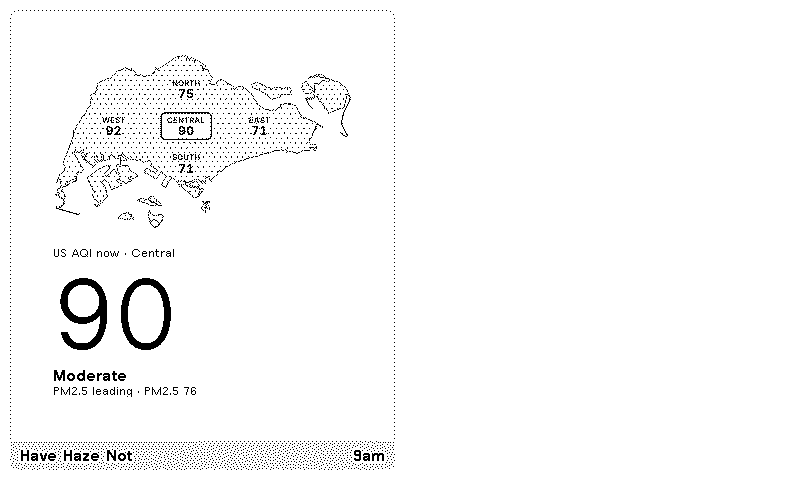
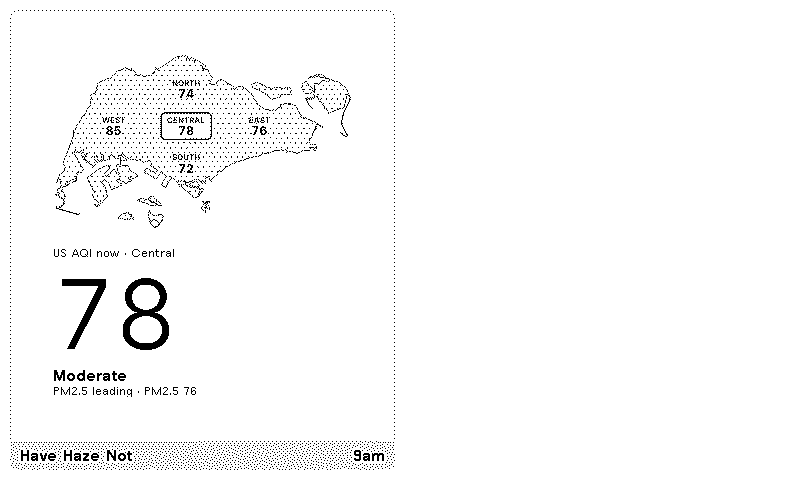
Take the US AQI from aqicn when a token is configured
Deriving the AQI got close to aqicn but never matched, and the residual had
a specific cause: aqicn still uses the pre-2024 EPA breakpoints, where Good
topped at 12.0ug/m3, while this used the current table revised in May 2024,
where it tops at 9.0. Running NEA's hourly readings through the older table
reproduced their numbers exactly, which is how that was pinned down.

Rather than pick a table, use theirs. All five NEA regions exist as aqicn
stations and one map/bounds request returns them together, so this costs a
single polling URL. Verified against their pages: every region now matches
exactly, where the derived values were off by up to 12.

The token is optional. Left blank the request fails harmlessly, the derived
value takes over, and the plugin still needs no account -- checked by
rendering both paths and asserting they differ, so the token is not quietly
doing nothing.

Singapore appears in the comparison row as well, and was showing Open-Meteo's
109 beside a headline of 78. It now takes the measured figure, so one place
cannot contradict another.

The repository is public, so the token gets three guards rather than trust.
settings.yml interpolates {{ aqicn_token }} and holds no value. .trmnlp.yml
is committed *and* rewritten by the preview picker -- which has already
captured a stray selection twice -- so it reads the environment instead, with
the value in a gitignored .env.local. tests/test_secrets.py fails the build
[…]

diff --git a/tests/test_render.py b/tests/test_render.py
@@ -53,7 +53,7 @@ def _user_flags():
     return ["--user", "%d:%d" % (os.getuid(), os.getgid()), "--env", "HOME=/tmp"]
 
 
-def render(home_region, scale=None):
+def render(home_region, scale=None, waqi=False):
     """Render full.html in a throwaway copy configured for one region."""
     with tempfile.TemporaryDirectory() as tmp:
         project = pathlib.Path(tmp) / "plugin"
@@ -74,6 +74,10 @@ def render(home_region, scale=None):
             # so the override has to have that shape too.
             "IDX_1": json.loads((ROOT / "fixtures" / "pm25.json").read_text()),
             "IDX_2": {"data": json.loads((ROOT / "fixtures" / "open-meteo.json").read_text())},
+            # Without a token the request fails; pass the failure shape so the
+            # fallback path is what the default tests exercise.
+            "IDX_3": (json.loads((ROOT / "fixtures" / "waqi.json").read_text())
+                      if waqi else {"status": "error", "data": "Invalid key"}),
         }
         fields = {"home_region": home_region}
         if scale:
@@ -308,6 +312,54 @@ class TestScaleSwitching(unittest.TestCase):
         self.assertEqual(len(rows), 5)
         for name, shown, pm25, _ in rows:
             self.assertEqual(shown, pm25, "%s: scale column should be the PM2.5 value" % name)
+
+
+@unittest.skipUnless(docker_available(), "docker not available")
+class TestAqicnSource(unittest.TestCase):
+    """With a token the AQI is aqicn's measured figure; without one it falls
+    back to the value derived from NEA's hourly PM2.5, so the plugin keeps
+    working for anyone who never registers."""
+
+    @classmethod
+    def setUpClass(cls):
+        cls.measured = json.loads((ROOT / "fixtures" / "waqi.json").read_text())
+        cls.with_token = render("Central", scale="US AQI", waqi=True)
+        cls.without = render("Central", scale="US AQI", waqi=False)
+
+    def expected(self):
+        out = {}
+        for s in self.measured["data"]:
+            name = s["station"]["name"]
+            if name.endswith(", Singapore"):
+                out[name.split(",")[0].upper()] = str(s["aqi"])
+        return out
+
+    def map_values(self, html):
+        names = re.findall(r'text-anchor="middle">([A-Z]+)</text>', html)
+        nums = re.findall(r'aq-map__psi"[^>]*text-anchor="middle">([^<]*)</text>', html)
+        return dict(zip(names, nums))
+
+    def test_token_makes_every_region_match_aqicn_exactly(self):
+        self.assertEqual(self.map_values(self.with_token), self.expected())
+
+    def test_without_a_token_it_still_renders_numbers(self):
+        got = self.map_values(self.without)
+        self.assertEqual(sorted(got), sorted(self.expected()))
+        for region, v in got.items():
+            self.assertTrue(v.strip().isdigit(), "%s blank on the fallback path" % region)
+
+    def test_the_two_paths_actually_differ(self):
+        """If they matched, the token would be doing nothing."""
+        self.assertNotEqual(self.map_values(self.with_token), self.map_values(self.without))
+
+    def test_singapore_city_entry_agrees_with_the_headline(self):
+        """Singapore appears twice on screen; it must not show two numbers."""
+        _, _, headline, _ = HEADLINE.search(self.with_token).groups()
+        cities = re.findall(
+            r'label--small">([A-Z][a-z][^<]*)</span>\s*'
+            r'<span class="value value--small value--tnums">([^<]*)</span>', self.with_token)
+        sg = dict(cities)["Singapore"]
+        self.assertEqual(sg, headline)
 
 
 if __name__ == "__main__":

diff --git a/tests/test_secrets.py b/tests/test_secrets.py
@@ -1,0 +1,71 @@
+"""Nothing secret may reach a commit.
+
+The repository is public, and the AQICN token now has three ways to leak:
+a literal in the polling URL, a value typed into the preview's Custom Fields
+picker (which rewrites the committed .trmnlp.yml), and an env file sitting in
+the working tree. Each gets a guard.
+"""
+
+import pathlib
+import re
+import subprocess
+import unittest
+
+ROOT = pathlib.Path(__file__).resolve().parent.parent
+
+
+def tracked_files():
+    out = subprocess.run(["git", "ls-files", "-z"], cwd=ROOT,
+                         capture_output=True, text=True, check=True).stdout
+    return [ROOT / f for f in out.split("\0") if f]
+
+
+class TestNoSecretsCommitted(unittest.TestCase):
+    def test_env_files_are_ignored(self):
+        for name in (".env", ".env.local"):
+            r = subprocess.run(["git", "check-ignore", name], cwd=ROOT, capture_output=True)
+            self.assertEqual(r.returncode, 0, "%s is not gitignored" % name)
+
+    def test_no_env_file_is_tracked(self):
+        for f in tracked_files():
+            self.assertFalse(f.name.startswith(".env") and f.name != ".env.example",
+                             "%s is tracked" % f.name)
+
+    def test_polling_url_interpolates_the_token(self):
+        settings = (ROOT / "src" / "settings.yml").read_text()
+        waqi = [l for l in settings.splitlines() if "api.waqi.info" in l]
+        self.assertEqual(len(waqi), 1, "expected one aqicn URL")
+        self.assertIn("token={{ aqicn_token }}", waqi[0],
+                      "the token must come from the custom field, never be literal")
+
+    def test_dev_config_reads_the_token_from_the_environment(self):
+        cfg = (ROOT / ".trmnlp.yml").read_text()
+        m = re.search(r"aqicn_token:\s*(.+)", cfg)
+        self.assertIsNotNone(m, "aqicn_token missing from .trmnlp.yml")
+        self.assertIn("env.", m.group(1),
+                      ".trmnlp.yml is committed and `serve` rewrites it from the "
+                      "picker, so it must never hold the value itself")
+
+    def test_no_tracked_file_holds_a_token_shaped_string(self):
+        """A WAQI token is a long lowercase hex string."""
+        pattern = re.compile(r"\b[0-9a-f]{24,}\b")
+        allow = {"tools/data/sgp-adm0.geojson"}
+        for f in tracked_files():
+            rel = f.relative_to(ROOT).as_posix()
+            if rel in allow or f.suffix in {".png", ".jpg"}:
+                continue
+            try:
+                text = f.read_text(errors="ignore")
+            except Exception:
+                continue
+            for hit in pattern.findall(text):
+                self.fail("%s contains a token-shaped string %r" % (rel, hit[:8] + "..."))
+
+    def test_fixtures_carry_no_token(self):
+        for f in (ROOT / "fixtures").glob("*.json"):
+            self.assertNotIn("token", f.read_text().lower(),
+                             "%s mentions a token" % f.name)
+
+
+if __name__ == "__main__":
+    unittest.main()

diff --git a/tools/check_apis.py b/tools/check_apis.py
@@ -16,10 +16,16 @@ from __future__ import annotations
 
 import argparse
 import json
+import os
 import pathlib
 import sys
 import unittest
 import urllib.request
+
+
+def redact(url, token):
+    """Never print the token, not even into a scrollback buffer."""
+    return url.replace(token, "<TOKEN>") if token else url
 
 ROOT = pathlib.Path(__file__).resolve().parent.parent
 FIXTURES = ROOT / "fixtures"
@@ -60,24 +66,36 @@ def main() -> int:
     args = parser.parse_args()
 
     urls = polling_urls()
-    if len(urls) != 3:
-        print("error: expected 3 polling URLs in settings.yml, found %d" % len(urls), file=sys.stderr)
+    if len(urls) != 4:
+        print("error: expected 4 polling URLs in settings.yml, found %d" % len(urls), file=sys.stderr)
         return 1
+
+    # The aqicn URL carries {{ aqicn_token }}; fill it from the environment so
+    # this check exercises the same request TRMNL will make.
+    token = os.environ.get("AQICN_API_TOKEN", "")
+    urls = [u.replace("{{ aqicn_token }}", token) for u in urls]
 
     psi_url = next(u for u in urls if u.endswith("/psi"))
     pm25_url = next(u for u in urls if u.endswith("/pm25"))
     om_url = next(u for u in urls if "open-meteo" in u)
+    waqi_url = next(u for u in urls if "waqi.info" in u)
 
     for u in (psi_url, pm25_url):
         print("GET %s" % u)
     print("GET %s" % om_url[:96] + "...")
+    print("GET %s" % redact(waqi_url, token))
     psi = fetch(psi_url)
     pm25 = fetch(pm25_url)
     om = fetch(om_url)
+    waqi = fetch(waqi_url) if token else {"status": "error", "data": "no token"}
+    if not token:
+        print("  (AQICN_API_TOKEN unset -- skipping the aqicn check)")
 
     # Write to a scratch location first so the contract tests run against the
     # live payloads; only promote to fixtures/ if they pass.
     staged = {"psi.json": psi, "pm25.json": pm25, "open-meteo.json": om}
+    if token and waqi.get("status") == "ok":
+        staged["waqi.json"] = waqi
     backups = {name: (FIXTURES / name).read_text() for name in staged if (FIXTURES / name).exists()}
     for name, doc in staged.items():
         (FIXTURES / name).write_text(json.dumps(doc, indent=2))

diff --git a/tests/test_api_contract.py b/tests/test_api_contract.py
@@ -94,6 +94,31 @@ class TestHourlyPm25Fixture(unittest.TestCase):
                             "hourly and 24-hour PM2.5 are identical; check the field")
 
 
+class TestWaqiFixture(unittest.TestCase):
+    """Optional source: present only when a token is configured."""
+
+    def setUp(self):
+        path = FIXTURES / "waqi.json"
+        if not path.exists():
+            self.skipTest("no aqicn fixture; needs AQICN_API_TOKEN")
+        self.doc = json.loads(path.read_text())
+
+    def test_envelope(self):
+        self.assertEqual(self.doc["status"], "ok")
+        self.assertIsInstance(self.doc["data"], list)
+
+    def test_covers_every_region(self):
+        found = {s["station"]["name"].split(",")[0].lower()
+                 for s in self.doc["data"]
+                 if s["station"]["name"].endswith(", Singapore")}
+        self.assertEqual(found, set(REGIONS),
+                         "the bounding box must return all five NEA regions")
+
+    def test_each_station_reports_an_aqi(self):
+        for s in self.doc["data"]:
+            self.assertIsInstance(s["aqi"], (int, float, str))
+
+
 class TestOpenMeteoFixture(unittest.TestCase):
     def setUp(self):
         self.doc = load("open-meteo.json")

diff --git a/README.md b/README.md
@@ -61,6 +61,7 @@ a pixel-sized SVG, or a nested `.layout`.
 | [data.gov.sg real-time PSI](https://data.gov.sg/datasets/d_fe37906a0182569d891506e815e819b7/view) (NEA) | 24-hour PSI, PM2.5/PM10 and pollutant sub-indices, five regions | no |
 | [data.gov.sg PM2.5](https://api-open.data.gov.sg/v2/real-time/api/pm25) (NEA) | hourly PM2.5, same five regions — what the AQI is derived from | no |
 | [Open-Meteo Air Quality](https://open-meteo.com/en/docs/air-quality-api) | 24-hour PM2.5 forecast, current PM2.5 and US AQI for the regional row | no |
+| [aqicn.org](https://aqicn.org/json-api/doc/) | measured US AQI per region | optional token |
 | [geoBoundaries](https://www.geoboundaries.org/) gbOpen SGP ADM0 | the coastline | n/a, baked in |
 
 NEA is the source for everything inside Singapore because it is the official
@@ -116,7 +117,7 @@ has no shared file.
 
 | Choice | Singapore regions | Regional cities |
 |---|---|---|
-| US AQI | derived from NEA's hourly PM2.5 | Open-Meteo's `us_aqi` |
+| US AQI | aqicn.org, or derived from NEA's hourly PM2.5 without a token | Open-Meteo's `us_aqi` |
 | NEA PSI | NEA's published PSI | derived from modelled PM2.5 |
 | PM2.5 | NEA's 24-hour average, µg/m³ | Open-Meteo's PM2.5, µg/m³ |
 
@@ -136,21 +137,45 @@ PM2.5 alone, for the same reason: NEA publishes no hourly PM10, and mixing a
 1-hour PM2.5 sub-index with a 24-hour PM10 one would compare different
 windows. PM10 has not been the driver in this data.
 
-### Why not aqicn's API
+### The AQICN token
 
-[aqicn.org](https://aqicn.org/city/singapore/west/) has per-region Singapore
-pages and a good API, but two things rule it out. It needs a free token per
-user, which would end this plugin's "no account or API key needed" property
-for everyone who installs it. And it is unnecessary: their own attribution
-reads *"measured by NEA"* — they re-serve the same feed this plugin already
-polls directly.
+Deriving an AQI lands close to what [aqicn.org](https://aqicn.org/city/singapore/west/)
+shows, but never exactly. The gap is not an error on either side: aqicn still
+uses the **pre-2024** EPA breakpoints, where Good topped at 12.0 µg/m³, while
+this plugin uses the current table revised in May 2024, where Good tops at
+9.0. Feeding NEA's hourly readings through the older table reproduces aqicn's
+numbers exactly, which is how the difference was identified.
 
-Checked region by region against their pages, the plugin now lands within 1–3
-points. The remainder is not an error on either side: aqicn still uses the
-**pre-2024** EPA breakpoints, where Good topped at 12.0µg/m³. Feeding NEA's
-hourly readings through that older table reproduces their numbers exactly for
-all five regions. This plugin uses the current table, revised in May 2024,
-where Good tops at 9.0.
+Rather than pick a side, set a token and the number *is* theirs. aqicn covers
+all five NEA regions as stations, and one
+[`map/bounds`](https://aqicn.org/json-api/doc/) request returns the lot:
+
+```
+https://api.waqi.info/map/bounds/?latlng=1.21,103.60,1.47,104.05&token=...
+```
+
+Tokens are free from [aqicn.org/data-platform/token](https://aqicn.org/data-platform/token/).
+Leave the field blank and the request fails harmlessly, the derived value
+takes over, and the plugin still needs no account at all.
+
+### Handling the token
+
+The repository is public, so the token has three ways to escape and each is
+closed off. `src/settings.yml` interpolates `{{ aqicn_token }}` and never
+holds a value. `.trmnlp.yml` is committed *and* rewritten by the preview's
+Custom Fields picker, so it reads `{{ env.AQICN_API_TOKEN }}` instead —
+put the value in `.env.local`, which is gitignored:
+
+```sh
+cp .env.example .env.local     # then fill it in
+set -a; . ./.env.local; set +a
+make serve
+```
+
+`tests/test_secrets.py` fails the build on a literal token in the polling
+URL, a value written into `.trmnlp.yml`, a tracked `.env` file, or any
+token-shaped string in a tracked file. `make check` redacts it from its own
+output.
 
 PSI runs the other way. It is a Singapore-only index, so for the comparison
 cities each modelled PM2.5 is put on NEA's own PM2.5 sub-index scale and the
@@ -160,6 +185,9 @@ is the particulate one — during haze, the one that drives it anyway.
 US AQI has six bands where PSI and PM2.5 have five, so nothing downstream
 assumes a count: the legend, the dot ramp and the band lookup all read the
 same per-scale lists.
+
+**AQICN token** — optional; see below. With one, the US AQI is aqicn's
+measured figure. Without, it is derived from NEA's hourly PM2.5.
 
 **Home region** — which of NEA's five reporting regions drives the big number
 and the box on the map. Defaults to Central.
